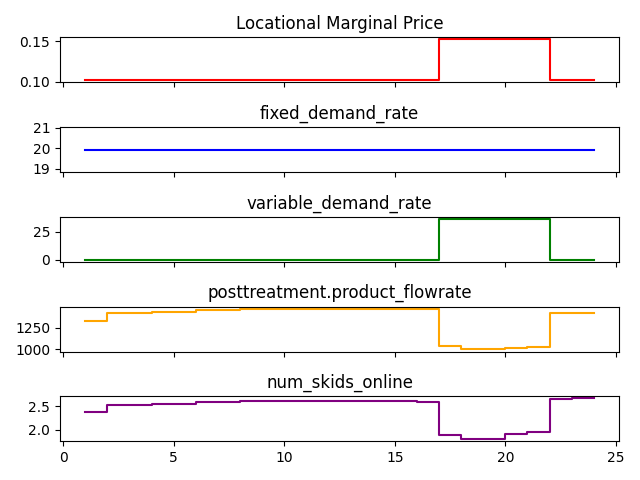
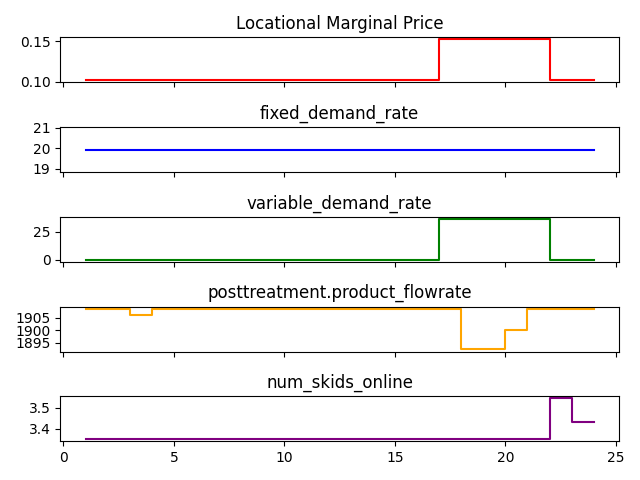
Added flow bounds based on RR and updated uf SEC curve

diff --git a/watertap/flowsheets/flex_desal/wrd_unit_models.py b/watertap/flowsheets/flex_desal/wrd_unit_models.py
@@ -30,11 +30,11 @@ def ro_skid_operation_model(blk, params: um_params.WRD_ROParams):
     _add_required_variables(blk)
     blk.coeffs = Param(["a", "b", "c"], initialize=params.surrogate_coeffs)
 
-    blk.operational_limits_lower = Constraint(
+    blk.op_flow_limits_lower = Constraint(
         expr=blk.feed_flowrate >= blk.op_mode * params.minimum_flowrate,
         doc="Enforce minimum flowrate when operating",
     )
-    blk.operational_limits_upper = Constraint(
+    blk.op_flow_limits_upper = Constraint(
         expr=blk.feed_flowrate <= blk.op_mode * params.maximum_flowrate,
         doc="Enforce maximum flowrate when operating",
     )
@@ -55,23 +55,23 @@ def ro_skid_operation_model(blk, params: um_params.WRD_ROParams):
         blk.energy_surrogate = SurrogateBlock()
         blk.energy_surrogate.build_model(
             energy_surrogate,
-            input_vars=[blk.recovery, blk.feed_flowrate],
+            input_vars=[blk.recovery, blk.feed_flowrate],  # RR,
             output_vars=[blk.energy_intensity],
         )
-        blk.calculate_energy_intensity = Constraint(
-            expr=blk.energy_intensity
-            == blk.energy_surrogate.outputs["energy_intensity"],
-            doc="Calculates the specific energy requirement using PySMO surrogate",
+
+        # The maximum and minimum flowrate limits are now functions of recovery. This restricts the domain of the surrogate.
+        # Probably just going to hardcode this fit. !! NOT UPDATED YET !!
+
+        blk.flow_limit_from_RR_upper = Constraint(
+            # With more data points in the surrogate, I could revisit and make linear
+            expr=blk.feed_flowrate <= (590 + exp(500 * (blk.recovery - 0.9))),
+            doc="Upper flow constraint goes away above 0.9 RR",
         )
-        # Have to add an additional constraint to limit the max flowrate for a given recovery. This is restricting the domain of the surrogate.
-        # Probably just going to hardcode this fit for now.
-        blk.max_flowrate_for_recovery = Constraint(
+
+        blk.flow_limit_from_RR_lower = Constraint(
             expr=blk.feed_flowrate
-            <= (
-                blk.coeffs["a"]
-                + blk.coeffs["b"] * blk.recovery
-                + blk.coeffs["c"] * blk.recovery**2
-            )
+            >= blk.op_mode * (544 + 7555 * (blk.recovery - 0.917)),
+            doc="Lower flow constraint based on recovery. In active below .914 RR",
         )
 
     else:
@@ -171,13 +171,15 @@ def wrd_reverse_osmosis_operation_model(blk, params: um_params.WRD_ROParams):
 
     # Update bounds on recovery and energy intensity for all skids
     # I'm struggling to understand why there are bounds on energy intensity. Shouldn't flowrate bounds do this implicitly?
-    ei_lb, ei_ub = params.get_energy_intensity_bounds()
+    # ei_lb, ei_ub = params.get_energy_intensity_bounds()
     for skid in blk.set_ro_skids:
         # Note: feed_flowrate lower bound is 0 to allow shutdown
         # Minimum flowrate when operating is enforced by operational_limits_lower constraint
         blk.ro_skid[skid].feed_flowrate.setub(params.maximum_flowrate)
         # blk.ro_skid[skid].energy_intensity.setlb(ei_lb)
-        blk.ro_skid[skid].energy_intensity.setub(ei_ub)
+        # blk.ro_skid[skid].energy_intensity.setub(ei_ub)
+        blk.ro_skid[skid].recovery.setlb(params.minimum_recovery)
+        blk.ro_skid[skid].recovery.setub(params.maximum_recovery)
 
 
 # Currently implementing UF same way as RO.

diff --git a/tutorials/flex_ro/wrd_pricetaker_short.py b/tutorials/flex_ro/wrd_pricetaker_short.py
@@ -369,9 +369,9 @@ if __name__ == "__main__":
             "nominal_flowrate": 900,
             "maximum_flowrate": 989,
             "surrogate_type": "quadratic_energy_intensity",
-            "surrogate_a": 2.83e-1,
-            "surrogate_b": -3.44e-4,
-            "surrogate_c": 2.46e-7,
+            "surrogate_a": 2.71e-1,
+            "surrogate_b": -3.32e-4,
+            "surrogate_c": 2.39e-7,
             "nominal_recovery": 0.96,
             "num_uf_pumps": 3,
         }
@@ -384,12 +384,9 @@ if __name__ == "__main__":
             "minimum_flowrate": 520,  # m3/hr
             "nominal_flowrate": 602,
             "maximum_flowrate": 635,
-            # "surrogate_type": "quadratic_energy_intensity",
-            # "surrogate_a": 5.411e-1,
-            # "surrogate_b": -9.826e-4,
-            # "surrogate_c": 1.100e-6,
+            "allow_variable_recovery": True,
             "surrogate_type": "PySMO_polyfit",
-            "surrogate_file": script_dir / "ro_power_poly_fit_order_2.json",
+            "surrogate_file": script_dir / "ro_SEC_poly_fit_order_2.json",
             "minimum_recovery": 0.88,
             "nominal_recovery": 0.92,
             "maximum_recovery": 0.925,
@@ -488,7 +485,7 @@ if __name__ == "__main__":
             uf_recovery=m.params.wrd_uf.nominal_recovery,
         )
 
-    # Could cause feasibility issues b/c this is a slakc varable essentially.
+    # Could cause feasibility issues b/c this is a slack variable essentially.
     # m.fix_operation_var("reverse_osmosis.leftover_flow", 0)
 
     # Flowrates not fixed, but shouldn't randomly fluctuate either.
@@ -509,7 +506,7 @@ if __name__ == "__main__":
 
     print(degrees_of_freedom(m))
 
-    # dt = DiagnosticsToolbox(m)
+    dt = DiagnosticsToolbox(m)
     # dt.report_structural_issues()
     solver = get_solver()
     # solver.options["max_iter"] = 500

diff --git a/tutorials/flex_ro/ro_const_RR_wrd.py b/tutorials/flex_ro/ro_const_RR_wrd.py
@@ -362,9 +362,9 @@ if __name__ == "__main__":
             "nominal_flowrate": 900,
             "maximum_flowrate": 989,
             "surrogate_type": "quadratic_energy_intensity",
-            "surrogate_a": 2.83e-1,
-            "surrogate_b": -3.44e-4,
-            "surrogate_c": 2.46e-7,
+            "surrogate_a": 2.71e-1,
+            "surrogate_b": -3.32e-4,
+            "surrogate_c": 2.39e-7,
             "nominal_recovery": 0.96,
             "num_uf_pumps": 3,
         }